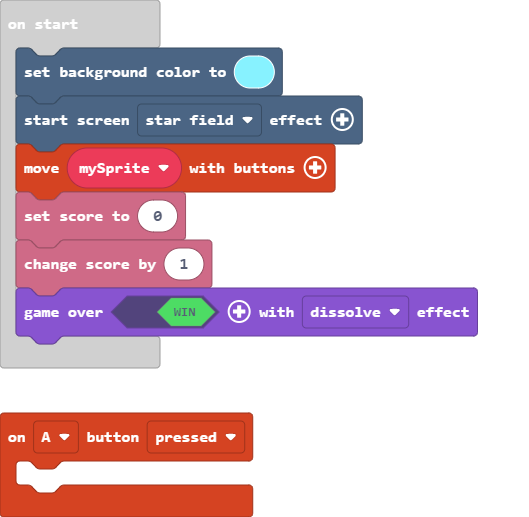
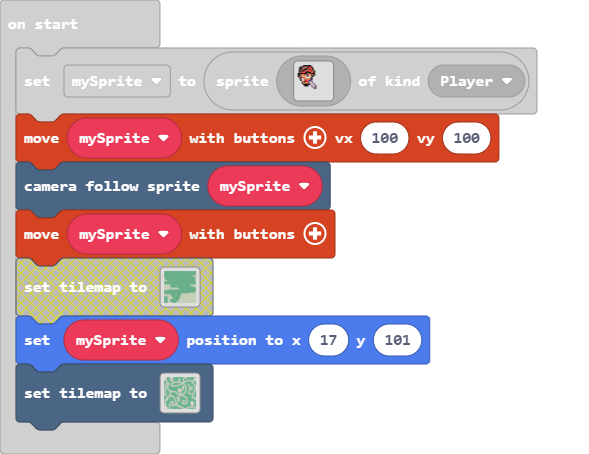
Update main.blocks, main.ts, tilemap.g.jres, tilemap.g.ts

diff --git a/tilemap.g.ts b/tilemap.g.ts
@@ -6,7 +6,7 @@ namespace myTiles {
     helpers._registerFactory("tilemap", function(name: string) {
         switch(helpers.stringTrim(name)) {
             case "level1":
-            case "level1":return tiles.createTilemap(hex`3200320002020204020202020202020202020202020405020202020202020202020202020402020202020202020204040402020202020202020404020202020202020202020204040202020202020202020202020202040202020202020204040404020202020202020202020404020202020202020202020402020202020202020202020202020404020202020202040402020202020202020202020202020402020202020202020202040202020202020202020202020202040402020202020404020202020202020202040202020202040402020202020202020202040202020202020204040402020404040202020202040202020202020202020404040404040202040202020202020202020204040404040404040202040404040402020202020404020202020202020404040404040404020202040404040404040404040402020202020202020202040404040202020202040202020202020204040402020504040402020404020202020202040402020202020202020202020202040202020202020404020202020202040402040202040404040204040202020202020202040402020202020202020202020204020204040202040202020202020204040202020202020204040004020202020202020202040402020202020204020202020402020202040204020202020202040404020202020202020202040202020202020202020202040402020202020402020204040202020202040402020202020204040202020202020202020404020202020202020202020202040202020202040402040402020202020202040202020202020404020202020202020202040202020202020202020202020202040202020202040402020202020202020202040202020202040303030302020202020404020202020202020202020202020204040202020202020202020202020202020202040202030303040404030302020202040202020204040402020202020202020404040202020202020202020202020202020204020203020202020204040302020204020202020404040402020202020202020404040202020202020202020202020202030403030202020202020204030202040402020202040204040402020202020202020404040202020202020202020202020303020203030302020202020203020204020202020204020204040202020202020202060404020202030202020202020203040202020204030302020202020302020402020202040404020204020202020202020202040402020304020202020202020304020202020404030202020202030202040202020204040402020402020202020202020204040402030402020202020203040202020202040403020202020203020204020202020404040202040202020202020202020204040304040202020202020304020203020204040302020202020302020402020202040504020204020202020202020202020404040404020202020202040402040402020204030202030202030204040202020202020202020402020202020202020202020304020202020202020204040404030202020403020203020203020404020202020202020202040202020202020202020202030202020202020202020303030202020202040302020304030302020402020206020202020204020404040404040202020203020202020202020202020202020202020204030202030404020202040402020202020202040404040404040404020202020302020202020202020202020202020202020403020203030202020202040202020202020204040404040404020202020202030302020202020202020202020202020202040402020303020202020204040201020202020404040404040202020202020202030302020202020202020202020202020204040202020202020202020404010102020204040404040402020202020202020202020303020202020202020202020202040402020202020202020202010404010202020404040404040202020202020202020202020203020202020202020202020404040202020202020202020404040401020204040404040202020202020202020202020202020203020202020202020204040204040202020202020201040404040102040404040402020202020202020202020202020202020303020202020202030402020304020202020202020104040404010204040402020202020202020202020202020202020202020302020203030404020202030402020202020202010404040404040404040202020202020202010103040404040404040404040404040404040202020202040402020202020202020404040202020202020202020101010104040404030202020202020202020202020202020202020203040202020202020102020402020202020202020101040404040401020203040202020202020202020202020202020202020304020202020202020102040201020202020101040404040204040202020203020202020202020202020202020202020202030402020202020202010202020102010101040404020202020404020202020302020202020202020202020202020202020404040202020202020205040202010101040404020202020202040202020202030202020202020202030202020202020204040404020202020202020201020201010404020202020202020404020202020203020202020202020303020202020202040404040202040402020202020202020101020202020202020204040202020202020302020202020203040402020202020404040402020204040402020202020202010102020202020202040401020202020202030202020202020304020202040404040204040202040204020202020202020201010202020202040404010202020202020404020202020202030404040404030302020404020202020402020202020202020101020202040404010202020202020204040404020202020202030303020202020202040404020204040202020202020202010102020404010202020202020202020404040402020202020204040202020202020202020404040402020202020202020201010202040102020202020202020202040404040202020202020404040404040404020202020202020202020202020202020101020204010202020202020202020204040404040202020202040404040404040402020202020202020202020202020202060602020401020202020202020202020405040402020202020204040404040404040202020202020202020202020202020206020202040202020202020202020202020202020202020202020404040404040404020202020202020202020202020202020202020204020202020202020202020202020202020202020202040404040404040402020202020202020202`, img`
+            case "level1":return tiles.createTilemap(hex`3200320001010101010101010101010101010101010101010101010101010101010101010101010101010101010101010101010101010101010101010101010101010101010101010101010101010101010101010101010101010101010101010101010101010101010101010101010101010101010101010101010101010101010101010101010101010101010101010101010101010101010101010101010101010101010101010101010101010101010101010101010101010101010101010101010101010101010101010101010101010101010101010101010101010101010101010101010101010101010101010101010101010101010101010101010101010101010101010101010101010101010101010101010101010101010101010101010101010101010101010101010101010101010101010101010101010101010101010101010101010101010101010101010101010101010101010101010101010101010101010101010101010101010101010101010101010101010101010101010101010101010101010101020202020202010101010101010101010101010101010101010101010101010101010101010101010101010101010101010101020202020201010101010101010101010101010101010101010101010101010101010101010101010101010101010101010101010102020101010101010101010101010101010101010101010101010101010101010101010101010101010101010101010101010102020201010101010101010101010101010101010101010101010101010101010101010101010101010101010101010101010202020101010101010101010101010101010101010101010101010101010101010101010101010101010101010101010101020202010101010101010101010101010101010101010101010101010101010101010101010101010101010101010101010102020202020101010101010101010101010101010101010101010101010101010101010101010101010101010101010101010202020202020201010101010101010101010101010101010101010101010101010101010101010101010101010101010101020101010101010101010101010101010101010101010101010101010101010101010101010101010101010101010101010101010101010101010101010101010101010101010101010101010101010101010101010101010101010101010101010101010101010101010101010101010101010101010101010101010101010101010101010101010101010101010101010101010101010101010101010101010101010101010101010101010101010101010101010101010101010101010101010101010101010101010101010101010101010101010101010101010101010101010101010101010101010101010101010101010101010101010102020202020202020202010101010101010101010101010101010101010101010101010101010101010202020202020202020202020202020202020201010101010101010101010101010101010101010101010101010101010102020202020202020202020202020202020202020101010101010101010101010101010101010101010101010101010101010101010202020202020202020202020202020202010101010101010101010101010101010101010101010101010101010101010101010101020202020202020202020202020201010101010101010101010101010101010101010101010101010101010101010101010101010102020202020202020202020202020202020202020202020101010101010101010101010101010101010101010101010101010102020202020202020202020202020202020202020202020202010101010101010201010101010101010101010101010101010202020202020202020202020202020202020202020202010101010101010101010101010101010101010101010101010101020202020202020101010101010101010101010101010101010101010101010101010101010101010101010101010101010102010101010101010101010101010101010101010101010101010101010101010101010101010101010101010101010101010101010101010101010101010101010101010101010101010101010101010101010101010101010101010101010101010102010101010101010101010101010101010101010101010101010101010101010101010101010101010101010101010101010201010101010101010101010101010101010101010101010101010101010101010101010101010101010101010101010102020101010101010101010101010101010101010101010101010101010101010101010101010101020202020202020202020202010101010101010101010101010101010101010101010101010101010202020202020202020202020202020202020202020202020202020202020202010101010101010102020101010101010102020202020202020202020202020202020202020202020202020202020202020202010101010101010102010101010101020202020202020202020202020202020202020202020202020202020202020202020202010101010101010101010101010102020202020202020202020202020202020202020202020201010102020202020202020201010101010101010101010101010202020202020202020202020202020202020202020202020101010101010202020202020201010101010101010101010102020202020202020202020202020202020202020202020202010101010101020202020202020201010101010101010101010202020202020202020202020202020202020202020202020201010101010102020202020202020201010101010101010101020202020202020202020202020202020202020202020202020101010101010202020202020101010101010101010101010202020202020202020202020202020202020202020202020202010101010101020202020101010101010101010101010101020202020202020202020202020202020202020202020202020201010101010102020202010101010101010101010101010202020202020202020202020202020202020202020202020202020101010101010202020201010101010101010101010101020202020202020202020202020202020202020202020202020202010101010101020202020101010101010101010102020202020202020202020202020202020202020202020202020202020201010101010102020202010101010101010101010202020202020202020202020202020202020202020202020202020202020101010101010202020202020202010101010102020202020202020202020202020202020202020202020202020202020202`, img`
 222.2222222222222..2222222222222.222222222...22222
 222..22222222222..22222222222222.2222222....222222
 2222..2222222222.22222222222222..222222..222222222
@@ -57,7 +57,110 @@ namespace myTiles {
 222222..22..2222222222....222222........2222222222
 222222.222.222222222222222222222........2222222222
 2222222222.222222222222222222222........2222222222
-`, [myTiles.transparency16,sprites.castle.tilePath7,sprites.builtin.forestTiles0,sprites.castle.tilePath8,sprites.castle.tilePath5,sprites.dungeon.chestClosed,sprites.builtin.coral1], TileScale.Sixteen);
+`, [myTiles.transparency16,sprites.builtin.forestTiles0,sprites.castle.tilePath1], TileScale.Sixteen);
+            case "level2":
+            case "level2":return tiles.createTilemap(hex`6400640001010101010101010101020202020202020202010101010101010101010202020202020202020202020202020202020202020202020202020202020202020202020202020202020202020202020202020202020202020202020202020202020202020202010101010101010101010202020202020202020101010101010101010102020202020202020202020202020202020202020202020202020202020202020202010101010101010102020202020202020202020202020202020202020202020202020202020101010101010101010202020202020202020201010101010101010101020202020202020202020202020202020202020202020202020202020202020101010101010101010101010102020202020202020202020202020202020202020202020202010101010101010101010102020202020202020202010101010101010101010202020202020202020202020202020202020202020202020202020202020201010101010101010101010101020202020202020202020202020202020202020202010101010101010101010101010101020202020202020202020101010101010101010102020202020202020202020202020202020202020202020202020202020202010101010102020202010101010202020202020202020202020202020202020202010101010101010101010101010101010202020202020202020201010101010101010101020202020202020202020202020202020202020202020202020202020202020101010202020202020202020202020202020202020202020202020202020202020101010101010101010101010101010102020202020202020202010101010101010101010202020202020202020202020202020201010101020202020202020202020201010102020202020202020202020202020202020202020202020202020202020201010101010101010101010101010202020202020202020202020101010101010101010102020202020202020202020202020202010101010102020202020202020202010101020202020202020202020202020202020202020202020202020202020202010101010101010101010101010102020202020202020202020201010102020202020202020202020202020202020202020202020101010101010202020202020202020101010202020202020202020202020202020202020202020202020202020202010101010101010102010101010101010202020202020202020202010101010101020202020202020202020202020202020202020202020101010102020202020202020201010102020202020202020202020101010101010102020202020202020202020101010101010101020101010101010101010202020202020202020101010101010101020202020202020202020202020202020202020202010101020202020202020202010101020202020202020202010101010101010101010101010102020202020101010102010101010202020201010101010102020202020202020201010101010101010101020202020202020202020202020202020202010101010202020202020202020101010202020202020101010101010101010101010101010101010202020201010101020101010102020202020201010101020202020202020202020202020101010101010102020202020202020202020202020202010101010102020202020202020201010102020202010101010101010101020202010101010101010101020201010101020202010101020202020202020101010102020202020202020202020202020101010101010202020202020202020202020202020101010101020202020202020202010101020101010101010101010102020202020202020202010101010101010101010202020202020202020202020201010101020202020202020202020202020202020101010102020202020202020202020202020201010102020202020202020202020101010101010101010101020202020202020202020202020201010101010101010202020202020202020202020202020101010202020202020202020202020202020202010101010101010101010101010101010101010101020202020202020202020201010101010101010102020202020202020202020202020202020101010101010202020202020202020202020202020201010102020202020202020202020202020202020101010101010101010101010101010101010101010101010101010101010101010101010101020202020202020202020202020202020202020202010101010202020202020202020202020202020202010101010101010102020202020202020202010101010101010101010101010101010101010101010101010101010101010101010101010102020202020202020202020202020202020202020202020101010101020202020202020202020202020202020101010101010101010202020202020202010101010101010202020202020202020202020202020101010101010101010101010101010202020202020202020202020202020202020202020202020202010101010102020202020202020202020202020101010101010101010102020202020202010101010101020202020202020202020202020202020202020202020202020202020202020202020202020202020202020202020202020202020202020202020201010101010202020202020202020202020201010101020201010101020202020202020101010102020202020202020202020202020202020202020202020202020202020101010101010102020202020202020202020101010202020202020202020202020101010101020202020202020202020202010101020202010101010202020202020101010102020202020202020202020202020202020202020202020201010101010101010101010101010202020202020202020201010102020202020202020202020202010101010202020202020202020202010101010202020101010202020202020101010101020202020202020202020202020202020202020202010101010101010101010101010101010101020202020202020202010101020202020202020202020202020201010101020202020202020202020101010102020201010102020202020201010101020202020202020202020202020202020202020201010101010101010101010101020202010101010102020202020202020101010102020202020202020202020202010101010202020202020202020101010102020201010101020202020202010101010202020202020202020202020202020202020101010101010101010202020202020202020201010101010202020202020201010101020202020202020202020202020201010101020202020202020201010101020101010101010202020202020101010102020202020202020202020202020202010101010101010102020202020202020202020202020101010101020202020202020101010102020202020202020202020202010101010202020202020202010101020101010101010102020202020202010101010101020202020202020101010101010101010101010202020202020202020202020202020202010101010202020202020201010101010202020202020202020202020201010101020202020202020101010201010101010202020202020202020101010101010101010101010101010101010101010101020202020202020202020202020202020202020201010102020202020202020101010102020202020202020202020202010101010202020202020201010102010101010202020202020202020201010101010101010101010101010101010101010102020202020202020202020202010101010202020202010101020202020202020202010101010202020202020202020202020201010101020202020202010101020101010102020202020202020202020202020101010101010101010101020202020202020202020202020202020202020101010101020202020101010102020202020202020101010102020202020202020202020202010101010202020202020101010202010101020202020202020202020202020202020202020202020202020202020202020202020202020202020202020201010101010102020201010101020202020202020202010101020202020202020202020202020201010102020202020101010102020101010202020202020202020202020202020202020202020202020202020202020202020202020202020202020202010101010101020202020101010202020202020202020101010102020201010101020202020202010101020202020201010101020201010102020202020202020202020202020202020202020202020202020202020202020202020202020202020202020101010101010202020201010101020202020202020201010101020201010101010202020202020101010202020202010101020202010101020202020202020202020202020202020202020202020202020202020202020202020202020202020202020201010101010102020202010101010202020202020202020101010202010101010102020202020201010102020202020101010202020101010202020202020202020202020202020202020202020202020202020202020202020202020202020202020202010101010101020202020201010102020202020202020201010102010101010101020202020202010101020202020201010102020201010101020202020202020202020202020202020202020202020202020202020202010101020202020202020202020201010101010202020202010101020202020202020202010101010101010101010202020202020101010202020202010101020202010101010202020202020202020202020202020202020202020202020202020202020101010102020202020202020202010101010102020202010101010202020202020202020101010101010101010102020202020201010102020202020101010202020201010101020202020202020202020202020202020202020202020202020202020201010101010101010202020202010101010101020202020101010102020202020202020101010101010101010101020202020202010101020202020101010102020202010101010102020202020202020202020202020202020202020202020202020202010101010101010101010201010101010101010202020201010102020202020202020201010101020201010101010202020202020101010202020201010101020202020201010101020202020202020202020202020202020202020202020202020202020101010101010101010101010101010101020202020202010101020202020202020202010101020202020101010102020202020201010102020202010101020202020202020101010102020202020202020202020202020202020202020202020202020201010101010101010101010101010102020202020202020101010202020202020202020101010202020202010101020202020202010101020202020101010202020202020201010101010202020202020202020202020202020202020202020202020202010101010101010101010101010202020202020202020201010102020202020202020101010102020202020202020202020202010101010202020201010102020202020202020101010101010202020202020202020202020202020202020202020202020101010101010101010101020202020202020202020202010101020202020202020101010101020202020202020202020202020101010102020202010101020202020202020201010101010101010102020202020202020202020202020202020202020201010101010101010101010202020202020202020202020101010202020202020201010101020202020202020202020202020101010102020202020101010202020202020202020201010101010101010101010101010101010101020202020202020202010101010101010201010102020202020202020202020201010102020202020202010101020202020202020202020202020201010101020202020201010102020202020202020202020201010101010101010101010101010101010101020202020202020101010101010102010101020202020202020202020201010101020202020202020101010202020202020202020202020202010101020202020202010101020202020202020202020202020201010101010101010101010101010101010101020202020202010101010102020101010202020202020202020201010101010202020202020101010102020202020202020202020202010101010202020202020101010202020202020202020202020201010101010101010202020202020101010101010102020202020101010202020101010102020202020202020201010101010202020202020201010101020202020202020202020202020101010102020202020201010102020202020202020202020202010101010102020202020202020202020101010101010202020202020202020201010101020202020202020201010101010202020202020202010101010202020202020202020202020101010102020202020201010101020202020202020202020202010101010202020202020202020202020202020101010101020202020202020202010101020202020202020202010101010202020202020202020101010101020202020202020202020201010101020202020202010101010202020202020202020202010101010102020202020202020202020202020202010101010102020202020202010101010202020202020202010101010202020202020202020202010101010102020202020202020201010101020202020202020101010202020202020202020202020101010102020202020202020202020202020202020201010101010202020202010101010102020202020202010101010102020202020202020202020201010101010102020202020202010101010202020202020201010102020202020202020202020201010102020202020202020202020202020202020202020101010101010201010101010102020202020201010101010102020202020202020202020202020101010101010101020202010101010202020202020202010101020202020202020202020202010101020202020202020202020202020202020202020202010101010101010101010102020202010101010101010102020202020202020202020202020202010101010101010101010101010102020202020202020101010102020202020202020202020101010202020202020202020202020202020202020202020201010101010101010102010101010101010101010102020202020202020202020202020202020202010101010101010101010102020202020202020201010101010101020202020202020201010101020202020202020202020202020202020202020202020201010101010101010101010101010101010202020202020202020202020202020202020202020202020101010101010101020202020202020202010101010101010202020202020202010101010101020202020202020202020202020202020202020202020201010101010101010101010102020202020202020202020202020202020202020202020202020202020202010101020202020202020202020202010101010102020202020202020101010101010101020202020202020202020202020202020202020202010101010101010101010101010102020202020202020202020202020202020202020202020202020202020101010202020202020202020202020201010101020202020202020202020101010101010101010202020202020202020202020202020202020101010202020202010101010101010102020202020202020202020202020202020202020202020202020201010102020202020202020202020202010101020202020202010101010101010101010101010101010202020202020202020202020202020201010102020202020202010101010101010102020202020202020202020202020202020202020202020201010101020202020202020202020202020202020202020201010101010101010101010101010101010101020202020202020202020202020202010101020202020202020202010101010101010102020202020202020202020202020202020202020202010101010202020202020202020202020202020202020201010101010101010101010102020201010101010102020202020202010101020202020101010202020202020202020202010101010101010102020202020202020202020202020202020202020101010202020202020202020202020202020202020201010101010102020202020202020202020201010101010202020202020101010202020201010102020202020202020202020202010101010101010102020202020202020202020202020202020201010102020202020202020202020202020202020201010101010202020202020202020202020202020101010101020202020201010101020202010101010202020202020202020202020202010101010101010202020202020202020202020202020201010101020201010101010202020202020202020202010101010202020202020202020202020202020202010101010202020202010101010102020101010102020202020202020202020202020202010101010101020202020202020202020202020202010101010101010101010101020202020202020202010101010202020202020202020202020202020202020201010101020202020201010101020202010101020202020202020202020202020202020202010101010102020202020202020202020202020101010101010101010101010202020202020202020101010101010102020202020202020202020202020202010101010202020202020101010202020101010202020202020202020202020202020202020201010101010202020202020202020202020202020101010101010201010102020202020202020101010101010101020202020202020202020202020202020201010102020202020201010101020201010102020202020202020202020202020202020202020101010102020202020202020202020202020202020202020202010101020202020202020101010101010101010202020202020202020202020202020202010101010202020202010101010202010101020202020202020202020202020202020202020202010101020202020202020202020202020202020202020202020101010202020202020101010101010101020202020202020202020202020202020202020101010102020202020201010101010101010202020202020202020202020202020202020202020101010202020202020202020202020202020202020202020201010101020202020201010101010101020202020202020202020202020202020202020202010101010202020202010101010101010102020202020202020202020202020202020202020201010102020202020202020202020202020202020202020202010101010202020201010101010101010202020202020202020202020202020202020202020101010102020202020201010101010102020202020202020202020202020202020202020202010101020202020202020202020202020202020202020202020201010102020201010101010101010202020202020202020202020202020202020202020202010101010202020202010101010101020202020202020202020202020202010101020202020101010202020202020202020202020202020202020202020202020101020202010101010101020202020202020202020202020202020202020202020202020101010101020202020101010101010202020202020202010101010101010101010202020201010102020202020202020202020202020202020202020202020202020202020101010101020202020202020202020202020202020202020202020202020202010101010202020201010101010202020202020202010101010101010101010102020202010101020202020202020202020202020202020202020202020202020202020201010101020202020202020202020202020202020202020202020202020202020201010101020202010101010102020202020202020101010101010101010101020202020101010202020202020202020202020202020202020202020202020202020202010101010202020202020202020202020202020201010101010101020202020202010101010202020101010102020202020202020201010102020201010101020202020201010102020202020202020202020101010101010202020202020202020202020101010202020202020202020202020202020201010101010101010202020202020201010102020202020202020202020202020202010101020202020202020202020201010101020202020202020202020101010101010101010202020202020202020201010102020202020202020202020202020201010101010101010101020202020202010101020202020202020202020202020202020101010202020202020202020202010101010202020202020202020101010101010101010102020202020202020202010101020202020202020202020202020201010101010202010101010102020202020101010202020202020202020202020202020201010101020202020202020202010101010202020202020202020201010101010101010101020202020202020202020101010202020202020202020202020201010101010202020201010101020202020201010102020202020202020202020202020202010101010202020202020202020101010102020202020202020202010101010101010101010102020202020202020201010102020202020202020202020201010101010202020202020101010202020202010101020202020202020202020202020202020201010101020202020202020101010102020202020202020202020101010101010101010101020202020202020201010101020202020202020202020201010101010202020202020201010102020202010101010101010202020202020202020202020202010101010101010202010101010101020202020202020202020201010101010101010101010202020202020202010101010202020202020202020202010101010202020202020201010101020202020101010101010102020202020202020202020202020201010101010101010101010101020202020202020202020202010101010101010101010102020202020202020101010101020202020202020202020101010202020202020201010101010202020101010101010101020202020202020202020202020202010101010101010101010101020202020202020202020202020201010101010101010101020202020202020101010101010202020202020202020101010102020202010101010101010202020201010101010101010202020202020202020202020202020202020201010101010102020202020202020202020202020202010101010101010101010202020202020201010101010102020202020202020201010101020202010101010101010202020201010101020101010102020202020202020202020202020202020202020202020202020202020202020202020202020202020101010101010101010102020202020202010101010101010202020202020202010101020202020101010101010202020101010101010201010101010202020202020202020202020202020202020202020202020202020202020202020202020202020201010101010101010202020202020202020101010101010102020202020202020101010202020201010101010101010101010101010202020101010102020202020202020202020202020202020202020202020202020202020202020202020202020202020201010101010102020202020202020201010101010101020202020202020201010102020202010101010101010101010101010202020202010101010202020202020202020202020202020202020202020202020202020202020202020202020202020202010101010101020202020202020202010101010101010202020202020202010101020202020201010101010101010101020202020202020101010101010101010202020202020202020202020202020202020202020202020202020202020202020202020202020202020202020202020202020101010101010102020202020202020101010202020202020202020202020202020202020202020201010101010101010101010101020202020202020202020202020202020202020202020202020202020202020201010101010102020202020202020101010101010101020202020202020201010102020202020202020202020202020202020202020202020201010101010101010101010101020202020202020202020202020202020202020202020202020201010101010101010101010202020202020201010101010101010101010202020202010101020202020202020202020202020202020202020202020202020202010101010101010101010101020202020202020202020202020202020202020201010101010101010101010101010101020202020202010101010101010101010102020202020101010202020202020202020202020202020202020202020202020202020101010202020101010101010101020202020202020202020202020201010101010101010101010101010202010101010101010202020101010101010101010101010202020201010101020202020202020202020202020202020202020202020202020202020202020202020101010101010202020202020202020202020101010101010101010101010202020202020201010101010101010101010101010101010101010102020202010101010202020202020202020202020202020202020202020202020202020202020202020202020101010101020202020202020202010101010101010101010202020202020202020202020101010101010101010101010101010101010101020202020201010102020202020202020202020202020202020202020202020202020202020202020202020202010101010101020202020101010101010101010202020202020202020202020202020202020201010101010101010101010101010101010202020202010101020202020202020202020202020202020202020202020202020202020202020202020202020201010101010101010101010101010101020202020202020202020202020202020202020202020202020201010101010101010101010102020202020101010202020202020202020202020202020202020202020202020202020202020202020202020202020101010101010101010101010102020202020202020202020202020202020202020202020202020202`, img`
+..........222222222..........22222222222222222222222222222222222222222222222222222222222222222222222
+..........222222222..........2222222222222222222222222222222222........22222222222222222222222222222
+.........2222222222..........2222222222222222222222222222222.............2222222222222222222222222..
+.........2222222222..........2222222222222222222222222222222.............222222222222222222222......
+.........2222222222..........2222222222222222222222222222222.....2222....22222222222222222222.......
+.........2222222222..........2222222222222222222222222222222...222222222222222222222222222222.......
+.........2222222222..........2222222222222222....22222222222...222222222222222222222222222222.......
+.......222222222222..........2222222222222222.....2222222222...222222222222222222222222222222.......
+.......222222222222...22222222222222222222222......222222222...22222222222222222222222222222........
+2.......22222222222......2222222222222222222222....222222222...22222222222.......22222222222........
+2.........222222222........222222222222222222222...222222222...222222222..............22222....2....
+2222......222222222..........222222222222222222....222222222...222222..................2222....2....
+222222....2222222222222.......2222222222222222.....222222222...2222.........222.........22....222...
+2222222....22222222222222......222222222222222.....222222222...2..........2222222222..........222222
+2222222....2222222222222222....222222222222222...22222222222...........22222222222222........2222222
+22222222...22222222222222222.....................22222222222.........22222222222222222......22222222
+22222222...22222222222222222......................................222222222222222222222....222222222
+22222222........2222222222......................................22222222222222222222222.....22222222
+22222222.........22222222.......222222222222222...............22222222222222222222222222.....2222222
+2222222..........2222222......22222222222222222222222222222222222222222222222222222222222.....222222
+2222222....22....2222222....22222222222222222222222222222.......22222222222...222222222222.....22222
+2222222...222....222222....222222222222222222222222..............2222222222...2222222222222....22222
+222222....222...222222.....222222222222222222222..................222222222...22222222222222....2222
+222222....222...222222....22222222222222222222.............222.....22222222....2222222222222....2222
+22222....222....222222....222222222222222222.........2222222222.....2222222....22222222222222....222
+22222....2......222222....2222222222222222........22222222222222.....2222222....2222222222222....222
+22222...2.......2222222......2222222............22222222222222222....2222222.....2222222222222....22
+22222...2.....222222222.......................22222222222222222222...22222222....2222222222222....22
+22222...2....2222222222.....................2222222222222....22222...222222222....2222222222222....2
+22222...2....22222222222222...........2222222222222222222.....2222....22222222....2222222222222....2
+22222...22...22222222222222222222222222222222222222222222......222....222222222...22222222222222...2
+2222....22...22222222222222222222222222222222222222222222......2222...222222222....222....222222...2
+2222....22...22222222222222222222222222222222222222222222......2222....22222222....22.....222222...2
+2222...222...22222222222222222222222222222222222222222222......2222....222222222...22.....222222...2
+2222...222...22222222222222222222222222222222222222222222......22222...222222222...2......222222...2
+2222...222....222222222222222222222222222222...22222222222.....22222...222222222..........222222...2
+2222...222....222222222222222222222222222222....2222222222.....2222....222222222..........222222...2
+2222...2222....22222222222222222222222222222........22222......2222....22222222...........222222...2
+222....2222.....2222222222222222222222222222..........2........2222...222222222....22.....222222...2
+222....22222....2222222222222222222222222222.................222222...222222222...2222....222222...2
+222...2222222....222222222222222222222222222...............22222222...222222222...22222...222222...2
+222...2222222.....22222222222222222222222222.............2222222222...22222222....2222222222222....2
+222...22222222......222222222222222222222222...........222222222222...2222222.....2222222222222....2
+222...22222222.........222222222222222222222...........222222222222...2222222....2222222222222....22
+222...2222222222...................222222222.......2...222222222222...2222222...22222222222222....22
+222...222222222222...................2222222.......2...22222222222....2222222...22222222222222...222
+222...22222222222222...................222222.....22...2222222222.....222222....2222222222222....222
+222...2222222222222........222222.......22222...222....222222222.....2222222....2222222222222....222
+222...2222222222222.....22222222222......2222222222....22222222.....22222222....222222222222....2222
+22....222222222222....222222222222222.....222222222...222222222....222222222.....22222222222....2222
+22....22222222222.....2222222222222222.....2222222....22222222....22222222222.....222222222....22222
+22...222222222222....222222222222222222.....22222.....2222222.....222222222222......2222222....22222
+22...222222222222...22222222222222222222......2......222222......22222222222222........222....222222
+22...222222222222...222222222222222222222...........2222........2222222222222222..............222222
+22....22222222222...2222222222222222222222.....................2222222222222222222...........2222222
+22.......22222222....22222222222222222222222.................222222222222222222222222........2222222
+22.......22222222......22222222222222222222222............2222222222222222222222222222222...22222222
+2222.....22222222........222222222222222222222..............22222222222222222222222222222...22222222
+22222....2222222222.........222222222222222222...22222........222222222222222222222222222...22222222
+22222...222222................2222222222222222...2222222........222222222222222222222222....22222222
+222222222222...................222222222222222...222222222........2222222222222222222222....22222222
+22222222222............222......2222222...2222...22222222222........22222222222222222222...222222222
+2222222222......222222222222.....222222...2222...2222222222222........222222222222222222...222222222
+222222222.....222222222222222.....22222....222....22222222222222.......2222222222222222....22.....22
+222222222....22222222222222222....22222.....22....2222222222222222......222222222222222............2
+22222222....2222222222222222222....22222....222...222222222222222222.....22222222222222............2
+22222222.......2222222222222222....222222...222...2222222222222222222.....222222222222222......2...2
+2222222........22222222222222222...222222....22...22222222222222222222....2222222222222222222222...2
+222222.........22222222222222222....22222....22...222222222222222222222...2222222222222222222222...2
+22222........2222222222222222222....222222........222222222222222222222...2222222222222222222222....
+22222.......222222222222222222222....22222........222222222222222222222...2222222222222222222222....
+2222........222222222222222222222....222222......2222222222222222222222...22222222222222222222222...
+222........22222222222222222222222....22222......222222222222222...2222...222222222222222222222222..
+222......2222222222222222222222222.....2222......22222222..........2222...22222222222222222222222222
+222.....222222222222222222222222222....2222.....22222222...........2222...22222222222222222222222222
+222....22222222222222222222222222222....222.....22222222...........2222...22222222222222222222222222
+222....2222222222222222.......222222....222....222222222...222....22222...22222222222......222222222
+222...2222222222222222........2222222...2222222222222222...22222222222....2222222222.........2222222
+222...222222222222222..........222222...2222222222222222...22222222222....222222222..........2222222
+222...22222222222222.....22.....22222...2222222222222222....222222222....2222222222..........2222222
+222...2222222222222.....2222....22222...2222222222222222....222222222....2222222222...........222222
+222...222222222222.....222222...22222...22222222222222222....2222222....22222222222...........222222
+22....22222222222.....2222222...2222.......22222222222222.......22......22222222222...........222222
+22....22222222222....2222222....2222.......222222222222222.............222222222222...........222222
+22.....2222222222...2222222.....222........222222222222222............22222222222222..........222222
+2......222222222....2222.......2222........2222222222222222222......2222222222222222..........222222
+2......222222222....222.......2222....2....22222222222222222222222222222222222222222..........222222
+2.......22222222...2222......222......2.....2222222222222222222222222222222222222222........22222222
+2.......22222222...2222..............222....222222222222222222222222222222222222222222......22222222
+2.......22222222...2222.............22222....22222222222222222222222222222222222222222......22222222
+2.......22222222...22222..........2222222.........22222222222222222222222222222222222222222222222222
+2.......22222222...2222222222222222222222.............22222222222222222222222222222222......22222222
+........22222222...222222222222222222222222.............22222222222222222222222222...........2222222
+...........22222...222222222222222222222222222............22222222222222222222................222222
+...........22222...222222222222222222222222222...222........22222222222222..............22.......222
+............2222....2222222222222222222222222222222222......222222222222............2222222.........
+............2222....222222222222222222222222222222222222.....222222222..........222222222222........
+............22222...2222222222222222222222222222222222222......2222.........2222222222222222222.....
+............22222...22222222222222222222222222222222222222................22222222222222222222222222
+............22222...222222222222222222222222222222222222222.............2222222222222222222222222222
+`, [myTiles.transparency16,sprites.castle.tilePath5,sprites.builtin.forestTiles0], TileScale.Sixteen);
         }
         return null;
     })

diff --git a/main.ts b/main.ts
@@ -24,6 +24,8 @@ let mySprite = sprites.create(img`
     ........................
     ........................
     `, SpriteKind.Player)
-controller.moveSprite(mySprite)
+controller.moveSprite(mySprite, 100, 100)
 scene.cameraFollowSprite(mySprite)
-tiles.setTilemap(tilemap`level1`)
+controller.moveSprite(mySprite)
+mySprite.setPosition(17, 101)
+tiles.setTilemap(tilemap`level2`)
